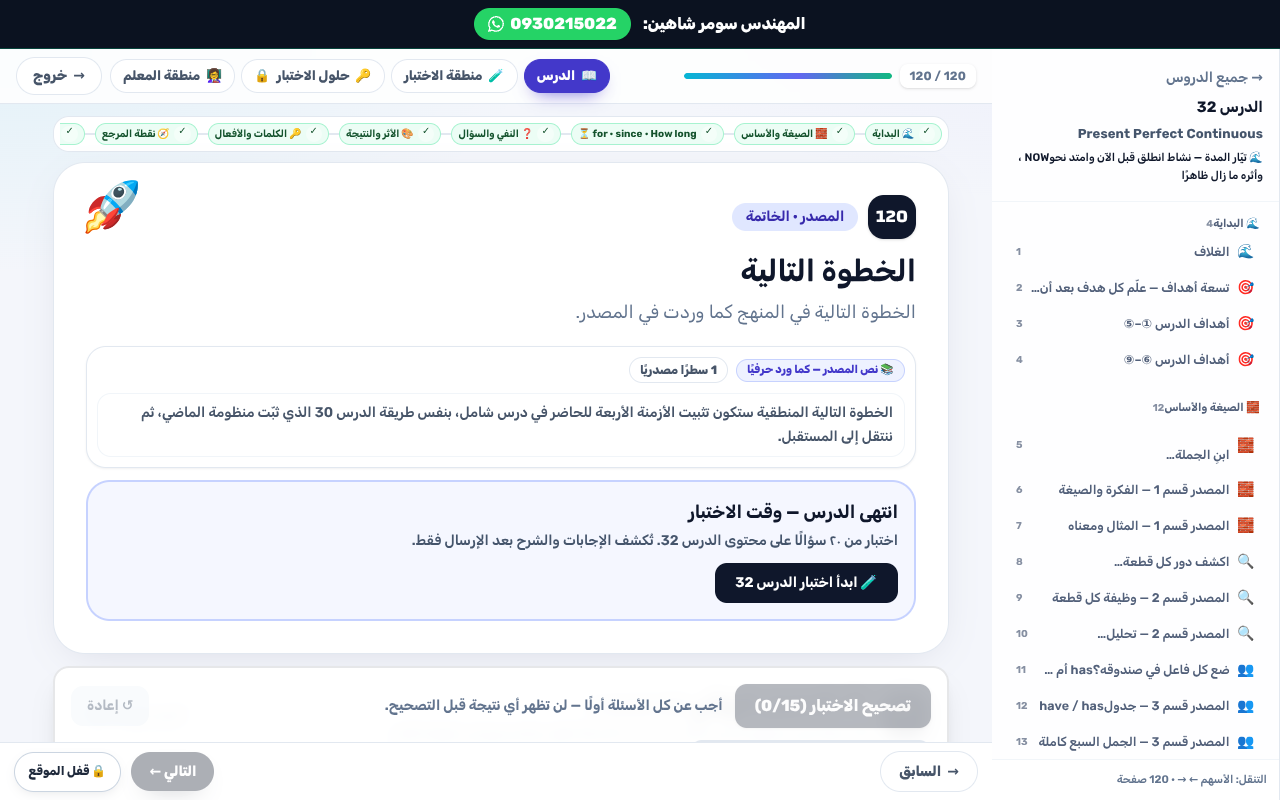
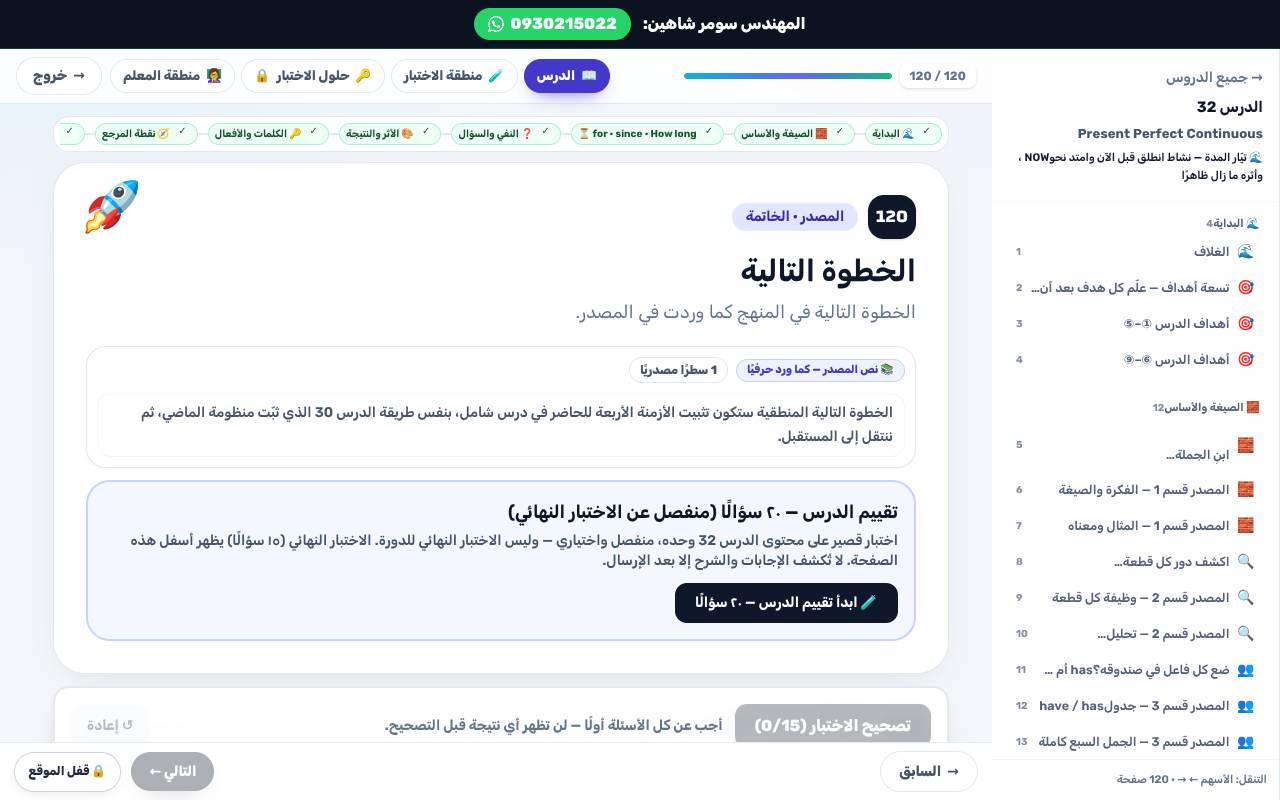
Lesson 32 review follow-ups: test-CTA clarity, audit comment, reproducible browser audit
1) Closing page: the 20-question lesson assessment CTA now names itself
   explicitly ('تقييم الدرس — ٢٠ سؤالًا (منفصل عن الاختبار النهائي)') and points
   to the 15-question official final test below it. Both tests, their banks,
   scoring and answer gating are unchanged; only the platform copy changed.
2) scripts/audit-final-test.mjs: the navigation-loop comment now describes the
   loop that actually exists (stops on final test / missing-or-disabled next /
   the 400 cap). No assertion touched — still 1253 checks.
3) Browser-audit tooling is reproducible: playwright-core, @sparticuz/chromium
   and @fontsource/{rubik,changa,noto-color-emoji} added to devDependencies
   (npm lockfile v3 updated); 'npm ci' now provisions everything the audit
   needs. Production dependencies are unchanged and none of these packages
   reach dist/.

New assertions (no weakened ones):
- audit-lesson32.mjs: +8 checks that the two tests stay distinct (different
  banks, different labels, final test only on the last page) -> 1092 checks.
- audit-lesson32-browser.mjs: +7 checks for the CTA label, the single final
  test block and the absence of lesson-test questions on the closing page
  -> 2575 checks.

diff --git a/src/lessons/lesson32/Steps32.tsx b/src/lessons/lesson32/Steps32.tsx
@@ -168,17 +168,19 @@ function DeckPage({ page, onGoTest }: { page: Page32; onGoTest: () => void }) {
         <Platform32>{"الأهداف التسعة هي خريطة الدرس: كل هدف يقابله قسم واحد على الأقل، وكل قسم ينتهي بتفاعل يثبته."}</Platform32>
       )}
       {page.cta === "test" && (
-        <div className="rounded-3xl border-2 border-indigo-200 bg-indigo-50/60 p-4">
-          <p className="font-head text-lg font-bold text-slate-900"><Rich text="انتهى الدرس — وقت الاختبار" /></p>
+        <div data-lesson-test-cta="20" className="rounded-3xl border-2 border-indigo-200 bg-indigo-50/60 p-4">
+          <p className="font-head text-lg font-bold text-slate-900">
+            <Rich text="تقييم الدرس — ٢٠ سؤالًا (منفصل عن الاختبار النهائي)" />
+          </p>
           <p className="mt-1 text-sm font-semibold text-slate-600">
-            <Rich text="اختبار من ٢٠ سؤالًا على محتوى الدرس 32. تُكشف الإجابات والشرح بعد الإرسال فقط." />
+            <Rich text="اختبار قصير على محتوى الدرس 32 وحده، منفصل واختياري — وليس الاختبار النهائي للدورة. الاختبار النهائي (١٥ سؤالًا) يظهر أسفل هذه الصفحة. لا تُكشف الإجابات والشرح إلا بعد الإرسال." />
           </p>
           <button
             type="button"
             onClick={onGoTest}
             className={`mt-3 rounded-xl bg-slate-900 px-5 py-2.5 text-sm font-bold text-white transition hover:bg-slate-700 ${FOCUS32}`}
           >
-            🧪 <Rich text="ابدأ اختبار الدرس 32" />
+            🧪 <Rich text="ابدأ تقييم الدرس — ٢٠ سؤالًا" />
           </button>
         </div>
       )}
